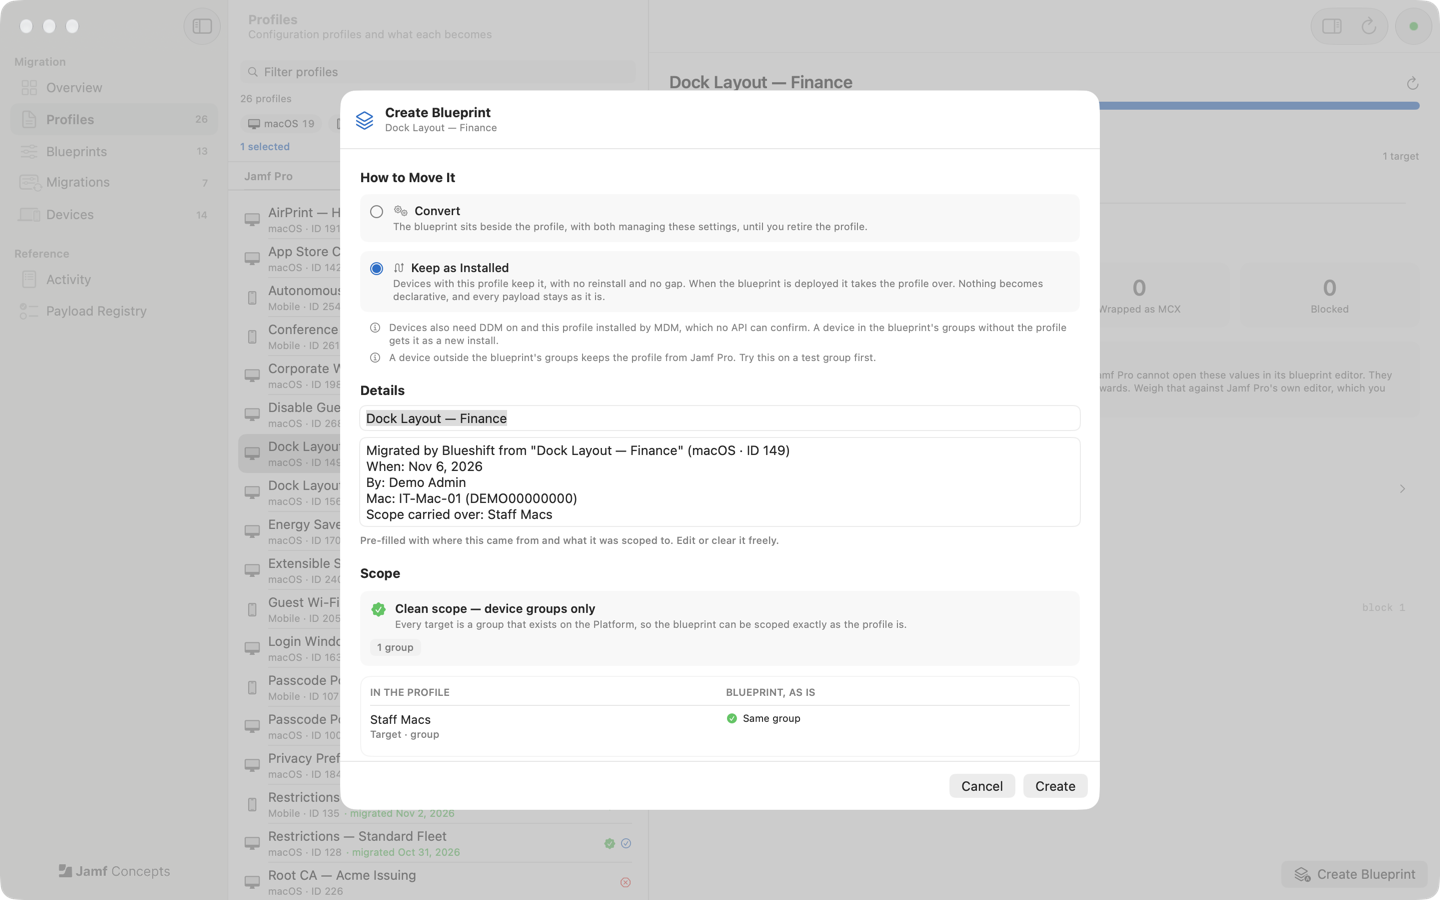
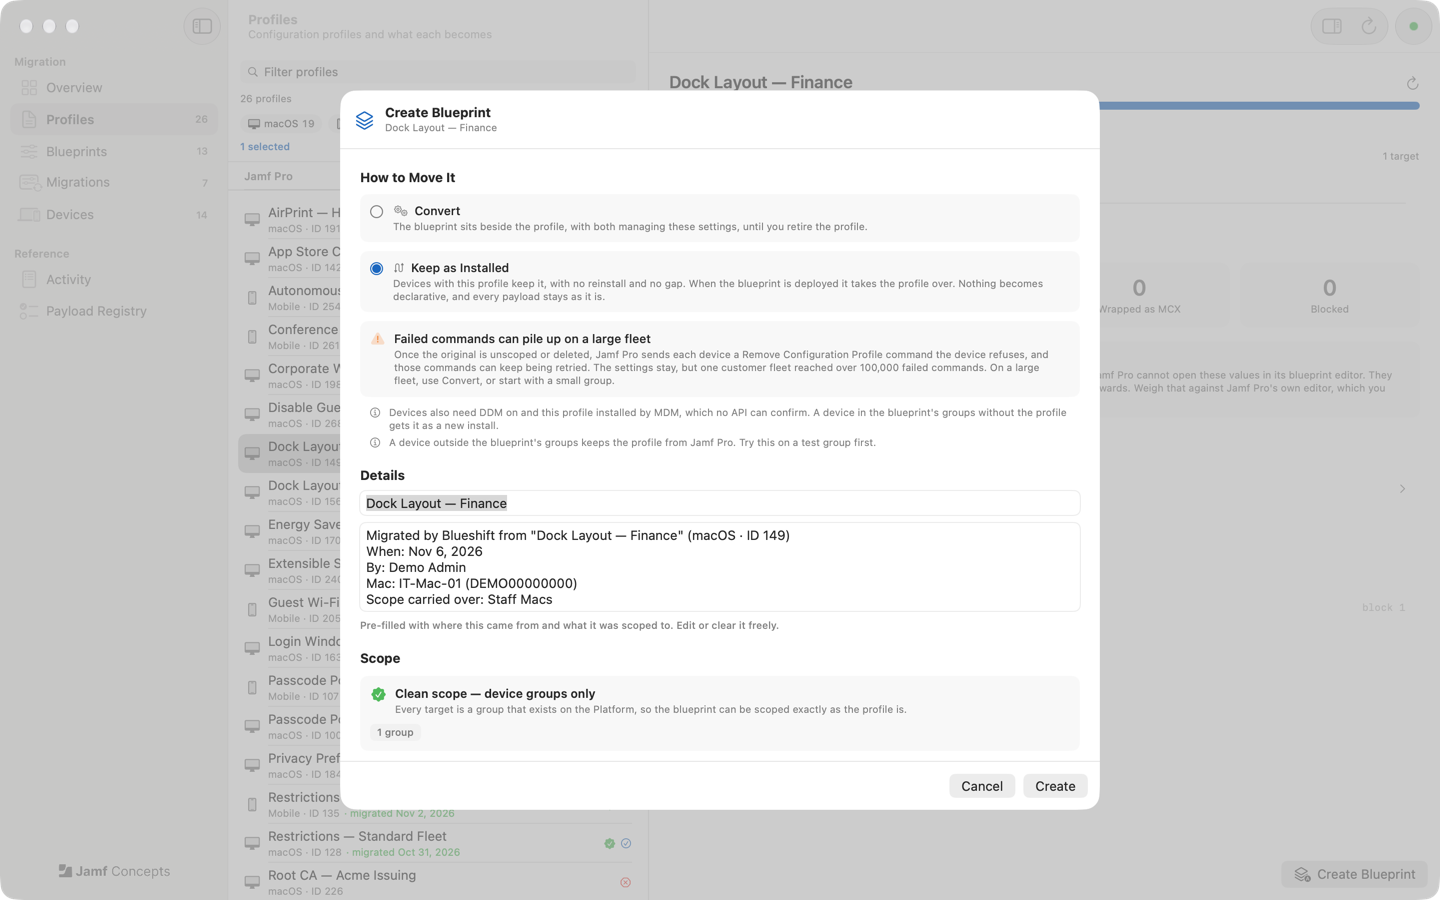
Document the retire check and large-fleet warning for 1.7.14
Retiring now needs a confirmed rollout on every route, and Keep as Installed warns
that failed commands can pile up on a large fleet. Also notes the iPhone test on
iOS 27.2 and retakes the two affected screenshots.

Changed region(s): [[0.25, 0.3422, 0.7188, 0.84]]

diff --git a/README.md b/README.md
@@ -52,7 +52,9 @@ More screenshots: [Devices](docs/screenshots/devices.png) ·
   with what a blueprint can express, and Blueshift can build one smart group
   that covers the rest.
 - **Retire the original.** Rename and unscope it (the default) or delete it, so
-  the old profile stops managing the same settings.
+  the old profile stops managing the same settings. Blueshift refuses to unscope
+  or delete it until the blueprint's rollout confirms it: deployed, with none
+  failed or pending.
 - **Work as a team.** Every blueprint records who migrated it and which profile
   it replaced, so every admin sees the same picture.
 
@@ -139,8 +141,8 @@ The same list, with a **Copy Permission List** button, is behind the **?** in
 | A profile shows as **Unreadable** | It is signed, empty or not a property list. Export it unsigned and drag it in. |
 | Blueprint scope will not save | Every blueprint needs at least one device group — the Platform API refuses an empty scope. |
 
-| Retiring a kept profile says **Not yet** | The blueprint isn't deployed, reports no devices, or has devices failed or pending. Deploy it and wait until nothing is failed or pending |
-| A failed **Remove Configuration Profile** after retiring a kept profile | Expected. The device has adopted the profile and keeps its settings |
+| Retiring a profile says **Not yet** | The blueprint isn't deployed, reports no devices, or has devices failed or pending. Deploy it and wait until nothing is failed or pending |
+| A failed **Remove Configuration Profile** after retiring a kept profile | The device has adopted the profile and keeps its settings, but these commands can be retried and pile up on a large fleet. See **Known gaps** |
 | A failed **Install Configuration Profile** after renaming a kept profile | Expected. The device keeps its name until the blueprint next updates the profile |
 | **Keep as Installed** is greyed out | The reason is listed under it. Use **Convert** |
 
@@ -181,6 +183,13 @@ method, path, status, timing and size — never bodies or credentials.
 - **Undeploying a kept profile leaves a gap.** With the original still scoped,
   Jamf Pro reinstalls it only at the next inventory update. With the original
   retired, the settings are gone.
+- **Keep as Installed can flood a large fleet with failed commands.** Once the
+  original is unscoped or deleted, Jamf Pro sends each device a Remove command it
+  refuses, and can keep retrying. One customer fleet reached over 100,000
+  ([jamf-cli #466](https://github.com/Jamf-Concepts/jamf-cli/pull/466)). Our own
+  tests covered two devices over a few hours and don't rule this out, and we
+  haven't tested a way to stop it. On a large fleet, use **Convert**, or start
+  with a small group.
 - **Keep as Installed hasn't been tested on iPad or Apple TV.** Testing covered
   macOS and one supervised iPhone, on one tenant, so start with a test group.
 

diff --git a/docs/HOW-IT-WORKS.md b/docs/HOW-IT-WORKS.md
@@ -199,6 +199,13 @@ on any Mac recognises the blueprint as a migration.
 
 ## Keeping a profile as installed
 
+**Convert is the default, and the right choice for a large fleet.** A kept profile
+has the same identity as its original, so once the original is unscoped or deleted
+Jamf Pro sends each device a Remove command it refuses, and can keep retrying. One
+customer fleet reached over 100,000 failed commands
+([jamf-cli #466](https://github.com/Jamf-Concepts/jamf-cli/pull/466)). Blueshift
+warns about this, and can't prevent it.
+
 **Convert** builds a new blueprint beside the profile, so devices install
 something new. **Keep as Installed** uses Apple's transition from MDM: when the
 blueprint is deployed, each device that has the same profile takes it over where
@@ -213,13 +220,13 @@ Blueshift names the reason. In a batch, a profile that doesn't qualify is skippe
 never quietly converted. Imported files don't offer this route, because no device
 got them from Jamf Pro.
 
-What we saw on a Mac and a supervised iPhone (iOS 26.6):
+What we saw on a Mac and a supervised iPhone (iOS 26.6 and 27.2):
 
 | Step | Result |
 |---|---|
 | Deploy | The blueprint reports success with no install command. On the Mac, the install date didn't change |
 | Retire the original | Refused until the blueprint has succeeded with none failed or pending, then allowed |
-| After retiring | Jamf Pro logs a failed Remove Configuration Profile for each device, and the settings stay. A Mac says "not installed by the MDM server"; an iPhone says "managed by Declarative Device Management" |
+| After retiring | Each device refuses Jamf Pro's Remove Configuration Profile, and the settings stay. A Mac says "not installed by the MDM server"; an iPhone says "managed by Declarative Device Management" |
 | Rename the original after adoption (Mac) | Jamf Pro logs a failed Install Configuration Profile, and the device keeps its name |
 | Edit a value and redeploy (Mac) | The same profile updates. Its identifier stays, its top-level UUID and install date change, and any setting the API dropped goes |
 | Leave scope, original retired | The profile and its settings come off |
@@ -247,6 +254,10 @@ is right. The recommended action **renames and unscopes** it and files it in the
 superseded in Jamf Pro, and can be put back by re-scoping. Deleting is offered
 last, behind its own confirmation. An original that is already retired is
 offered only **Delete** — retiring it again would change nothing.
+
+On every route, unscoping or deleting an original that still reaches devices is
+refused until the blueprint's rollout confirms it: deployed, at least one device
+succeeded, none failed or pending. A rollout that can't be read counts as a no.
 
 From a migration you can also **Show the profile** or **Open the profile in
 Jamf Pro** while it still exists.

diff --git a/docs/FAQ.md b/docs/FAQ.md
@@ -41,7 +41,7 @@ settings from devices. With the original still scoped, Jamf Pro reinstalls it at
 the next inventory update, and the settings are missing until then.
 
 **Does Keep as Installed work on iPhone?**
-It worked on a supervised iPhone on iOS 26.6. iPad and Apple TV haven't been
+It worked on a supervised iPhone on iOS 26.6 and 27.2. iPad and Apple TV haven't been
 tested, so start with a test group.
 
 **What does Blueshift send, and where?**
